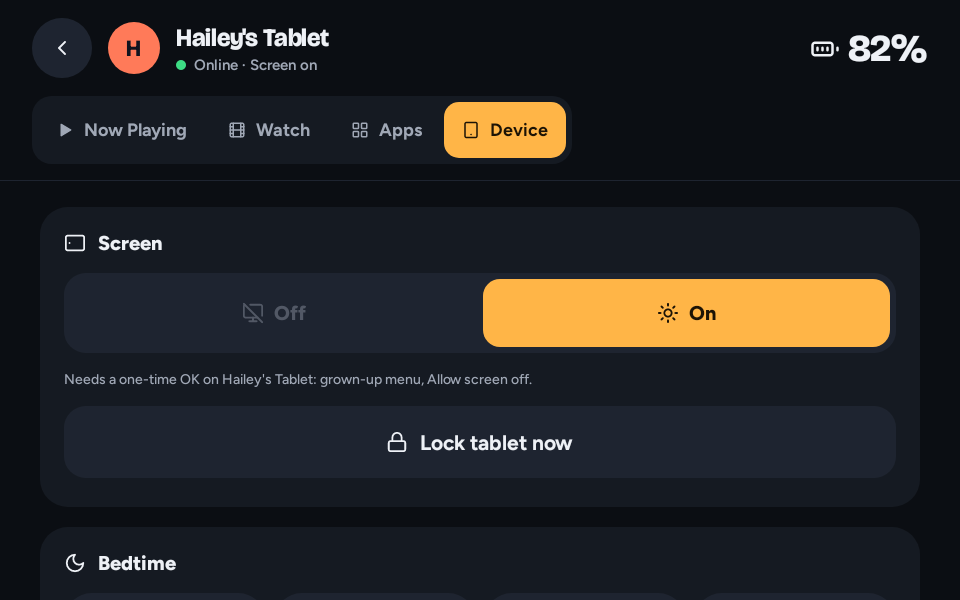
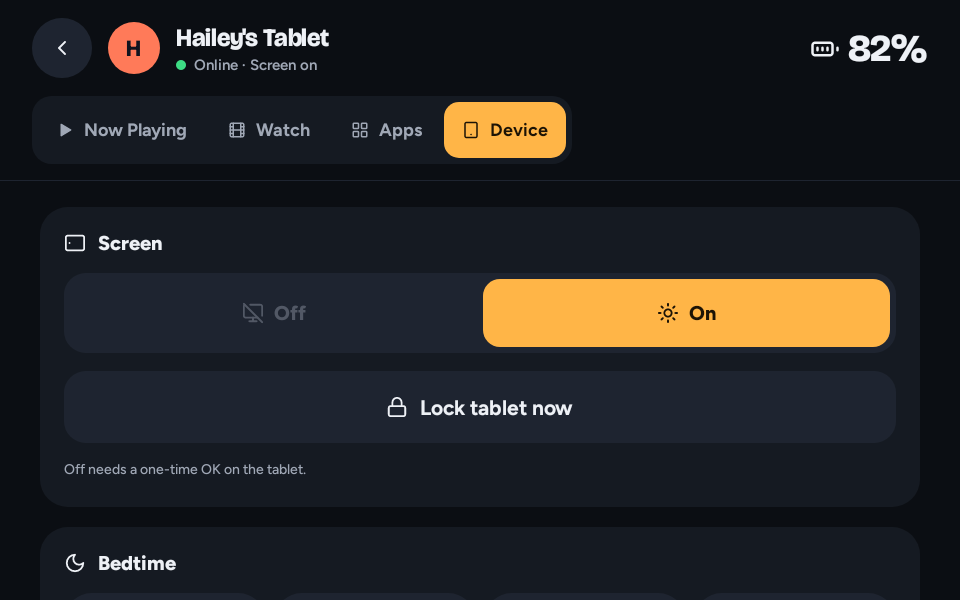
device tab: lock tablet stays fully visible, screen off reason is one short line under it

Changed region(s): [[0.0625, 0.63, 0.5938, 0.69], [0.0625, 0.78, 0.3125, 0.81], [0.4062, 0.72, 0.5938, 0.75]]

diff --git a/app/src/main/java/com/nbaltas/nickos/ui/master/Control.kt b/app/src/main/java/com/nbaltas/nickos/ui/master/Control.kt
@@ -534,9 +534,10 @@ private fun DeviceTab(v: NodeView, onUnlinked: () -> Unit) {
                         SegBtn(Lucide.MonitorOff, "Off", !on, Modifier.weight(1f), enabled = st?.screenOffOk != false) { m.screen(v.node.id, false) }
                         SegBtn(Lucide.Sun, "On", on, Modifier.weight(1f)) { m.screen(v.node.id, true) }
                     }
-                    if (st?.screenOffOk == false) Muted(ControlAccess.screenOffReason(v.node.name), 14)
                     if (st?.lockedBy != null) NickButton("Unlock tablet", { m.lock(v.node.id, false) }, Modifier.fillMaxWidth(), BtnStyle.PRIMARY, big = true, leading = Lucide.LockOpen)
                     else NickButton("Lock tablet now", { m.lock(v.node.id, true) }, Modifier.fillMaxWidth(), big = true, leading = Lucide.Lock)
+                    // One short line under Lock, so Lock is never pushed out of the card.
+                    if (st?.screenOffOk == false) Muted(ControlAccess.SCREEN_OFF_SHORT, 14)
                 }
             },
             { mod ->

diff --git a/app/src/main/java/com/nbaltas/nickos/node/ControlAccess.kt b/app/src/main/java/com/nbaltas/nickos/node/ControlAccess.kt
@@ -15,5 +15,6 @@ object ControlAccess {
 
     /** Master side: the short reason shown under a control the Node cannot do, or null when it works. */
     fun brightnessReason(tablet: String) = "Needs a one-time OK on $tablet: grown-up menu, Allow brightness."
+    const val SCREEN_OFF_SHORT = "Off needs a one-time OK on the tablet."
     fun screenOffReason(tablet: String) = "Needs a one-time OK on $tablet: grown-up menu, Allow screen off."
 }
